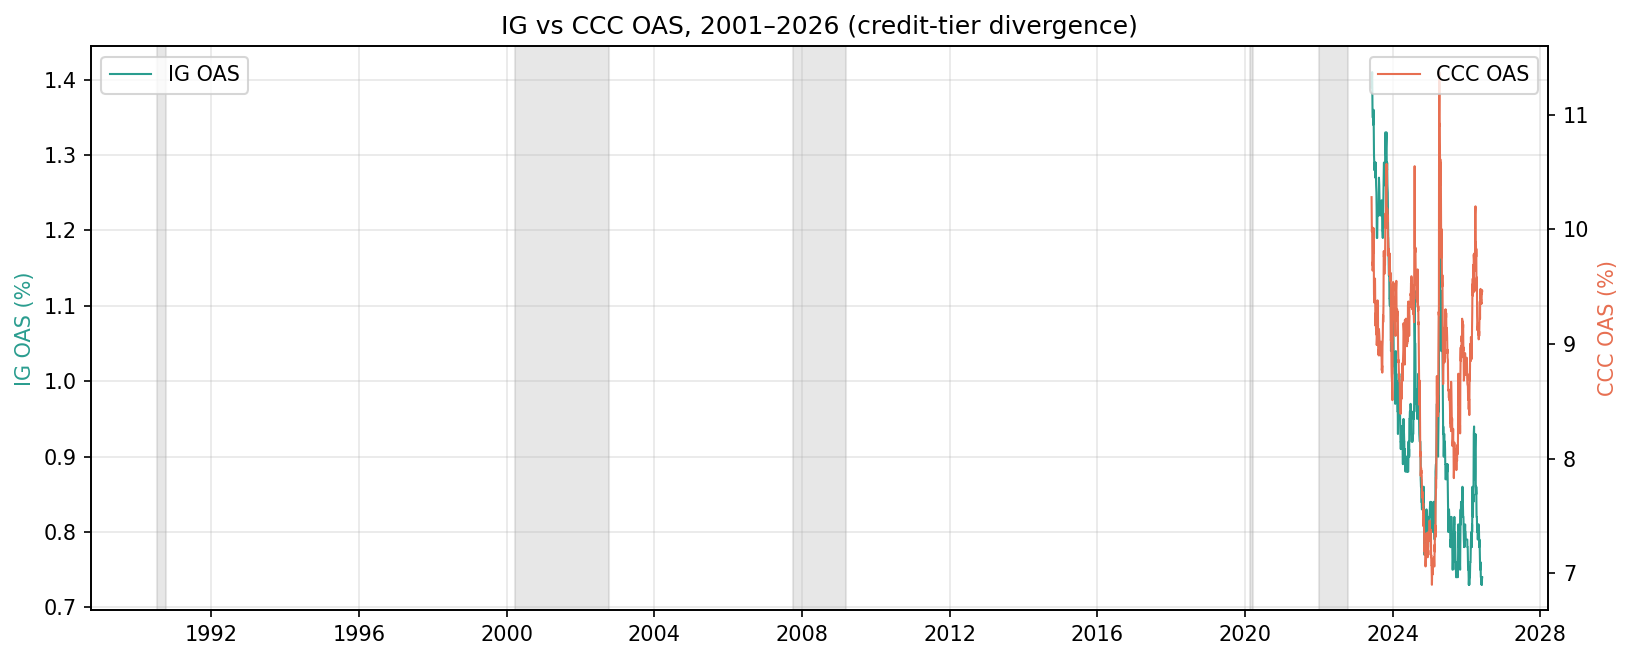
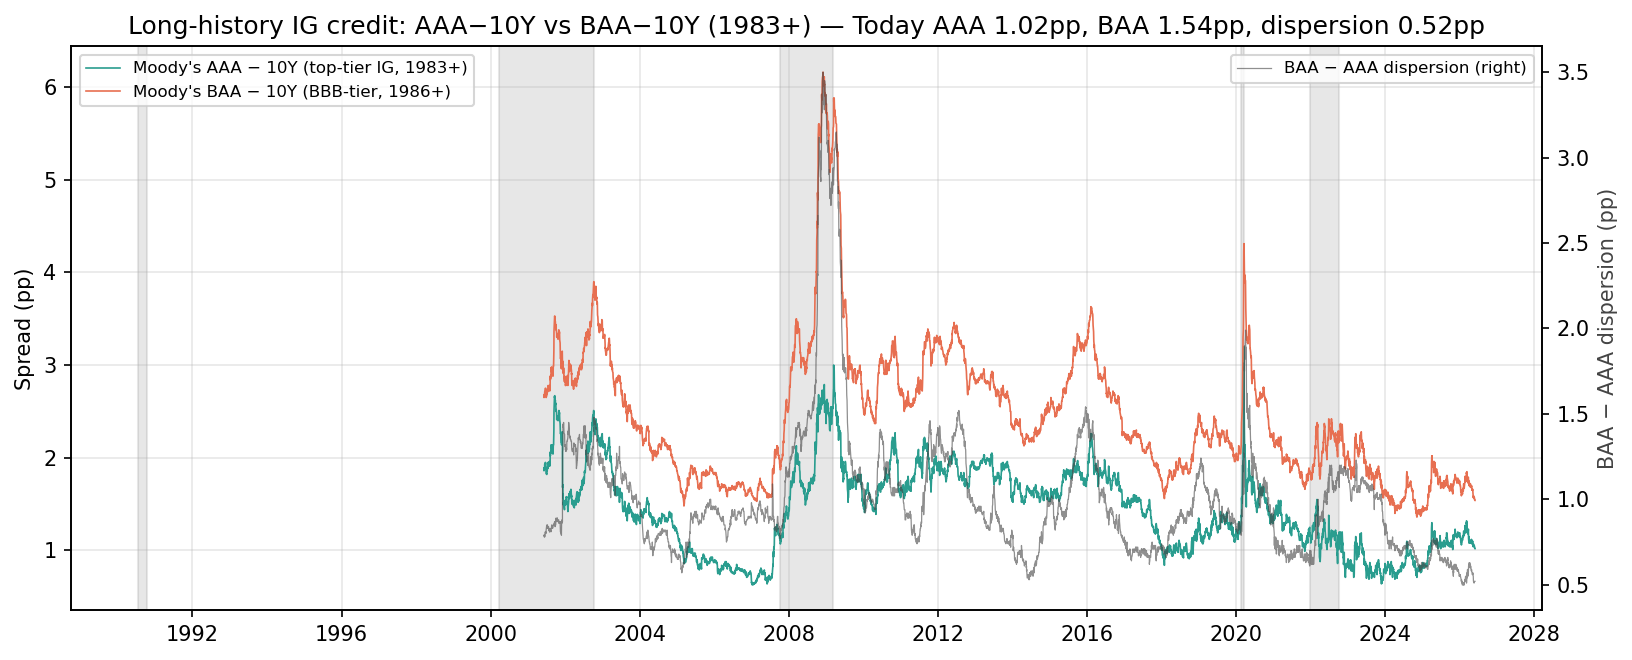
fix(market-complacency): replace IG vs CCC chart with long-history Moody's AAA/BAA
User: "no historical data?" — re Figure 4 IG vs CCC OAS still showing
only post-2023 (same ICE BofA relicensing limitation as Figure 3 HY OAS).

Replaced with Moody's AAA-10Y vs BAA-10Y overlay:
- AAA-10Y (FRED AAA10Y): 1983+ daily, ~10,800 obs. Top-tier IG.
- BAA-10Y (FRED BAA10Y): 1986+ daily, ~10,100 obs. BBB-tier.
- BAA - AAA dispersion (right axis): long-history analog of "CCC - HY
  spread" — credit-quality dispersion within IG widens before
  credit-cycle turns

Chart now shows:
- 40 years of IG credit-tier history
- Bear-market shading reveals 2000-02 dot-com, 2008 GFC (BAA peaked
  >6pp, dispersion ~3.5pp), 2020 COVID (BAA spiked to 4.3pp), 2022
  Fed pivot
- Today's values in title: AAA 1.02pp, BAA 1.54pp, dispersion 0.52pp

Did NOT add AAA10Y to the INDICATORS catalog (weight 0 would still
pollute the active count). Fetched inline inside the chart function
via fetch_fred("AAA10Y", ...). Computational cost: one extra FRED API
call per build.

Report Figure 4 caption updated:
- Title changed to "Long-history IG credit — AAA-10Y vs BAA-10Y +
  dispersion"
- Source links updated to point at AAA10Y + BAA10Y FRED pages
- Explanation of the dispersion metric + which historical events are
  visible in the chart

diff --git a/.claude/skills/market-complacency/scripts/build_dashboard.py b/.claude/skills/market-complacency/scripts/build_dashboard.py
@@ -1350,18 +1350,39 @@ def _make_charts(as_of, composite, tier, composite_hist, series, table, prec_df,
         plt.savefig(CHARTS / f"market_complacency_{as_of}_hy_oas.png", dpi=150, bbox_inches="tight")
         plt.close()
 
-    # Chart 3: IG + CCC
-    if not series["ig_oas"].empty and not series["ccc_oas"].empty:
+    # Chart 3: Long-history IG credit-tier overlay — Moody's AAA-10Y vs BAA-10Y.
+    # Replaces the IG vs CCC OAS chart because ICE BofA IG and CCC are both
+    # FRED-restricted to mid-2023 forward (relicensing). Moody's AAA-10Y has
+    # FRED daily data back to 1983; BAA-10Y back to 1986. Together they show
+    # the IG credit-quality cycle: the SPREAD between the two (BAA − AAA)
+    # is the long-history analog of "CCC − HY spread" — credit-quality
+    # dispersion within IG widens before turns.
+    aaa_rows = fetch_fred("AAA10Y", "1983-01-01")
+    if not aaa_rows.empty and not series["baa10y"].empty:
+        aaa = aaa_rows
+        baa = series["baa10y"]
+        # Align on common dates
+        df = pd.concat([aaa.rename("aaa"), baa.rename("baa")], axis=1).dropna()
+        df["dispersion"] = df["baa"] - df["aaa"]
         fig, ax = plt.subplots(figsize=(11, 4.5))
         _shade_bears(ax)
-        ax.plot(series["ig_oas"].index, series["ig_oas"].values, lw=1.0, color="#2a9d8f", label="IG OAS")
+        ax.plot(df.index, df["aaa"], lw=0.8, color="#2a9d8f", label="Moody's AAA − 10Y (top-tier IG, 1983+)")
+        ax.plot(df.index, df["baa"], lw=0.8, color="#e76f51", label="Moody's BAA − 10Y (BBB-tier, 1986+)")
         ax2 = ax.twinx()
-        ax2.plot(series["ccc_oas"].index, series["ccc_oas"].values, lw=1.0, color="#e76f51", label="CCC OAS")
-        ax.set_ylabel("IG OAS (%)", color="#2a9d8f")
-        ax2.set_ylabel("CCC OAS (%)", color="#e76f51")
-        ax.set_title(f"IG vs CCC OAS, 2001–{as_of[:4]} (credit-tier divergence)")
+        ax2.plot(df.index, df["dispersion"], lw=0.6, color="#444444", alpha=0.6,
+                 label="BAA − AAA dispersion (right)")
+        ax.set_ylabel("Spread (pp)")
+        ax2.set_ylabel("BAA − AAA dispersion (pp)", color="#444444")
+        cur_aaa = float(df["aaa"].iloc[-1])
+        cur_baa = float(df["baa"].iloc[-1])
+        cur_disp = float(df["dispersion"].iloc[-1])
+        ax.set_title(
+            f"Long-history IG credit: AAA−10Y vs BAA−10Y (1983+) — Today AAA {cur_aaa:.2f}pp, "
+            f"BAA {cur_baa:.2f}pp, dispersion {cur_disp:.2f}pp"
+        )
         ax.grid(alpha=0.3)
-        ax.legend(loc="upper left"); ax2.legend(loc="upper right")
+        ax.legend(loc="upper left", fontsize=8)
+        ax2.legend(loc="upper right", fontsize=8)
         plt.tight_layout()
         plt.savefig(CHARTS / f"market_complacency_{as_of}_ig_ccc.png", dpi=150, bbox_inches="tight")
         plt.close()

diff --git a/reports/market-complacency/market_complacency_2026-06-07.md b/reports/market-complacency/market_complacency_2026-06-07.md
@@ -50,8 +50,8 @@ Indicator histories with bear-market shading and last-10y percentile reference l
 ![Figure 3: Long-history credit (Moody's BAA−10Y + HY OAS reference points)](../charts/market_complacency_2026-06-07_hy_oas.png)
 *Sources: [FRED Moody's BAA−10Y (BAA10Y, 1986+)](https://fred.stlouisfed.org/series/BAA10Y) · [FRED ICE BofA HY OAS (BAMLH0A0HYM2, 2023+)](https://fred.stlouisfed.org/series/BAMLH0A0HYM2) · [TradingEconomics HY OAS long-history chart](https://tradingeconomics.com/united-states/bofa-merrill-lynch-us-high-yield-option-adjusted-spread-fed-data.html)*
 
-![Figure 4: IG vs CCC OAS](../charts/market_complacency_2026-06-07_ig_ccc.png)
-*Sources: [FRED IG OAS (BAMLC0A0CM, 2023+)](https://fred.stlouisfed.org/series/BAMLC0A0CM) · [FRED CCC OAS (BAMLH0A3HYC, 2023+)](https://fred.stlouisfed.org/series/BAMLH0A3HYC). Both ICE BofA series are FRED-restricted to mid-2023 forward — for pre-2023 IG-credit cycle context see Figure 3's BAA−10Y line which goes back to 1986.*
+![Figure 4: Long-history IG credit — Moody's AAA−10Y vs BAA−10Y + dispersion](../charts/market_complacency_2026-06-07_ig_ccc.png)
+*Sources: [FRED Moody's AAA−10Y (AAA10Y, 1983+)](https://fred.stlouisfed.org/series/AAA10Y) · [FRED Moody's BAA−10Y (BAA10Y, 1986+)](https://fred.stlouisfed.org/series/BAA10Y) — Replaces the FRED-restricted ICE BofA IG/CCC overlay (both 2023+ only). The BAA − AAA dispersion (grey) is the long-history analog of "CCC − HY spread": widens before credit-cycle turns. GFC peak (>6pp BAA, ~3.5pp dispersion) and COVID spike (BAA to 4.3pp) clearly visible.*
 
 ![Figure 5: Shiller CAPE](../charts/market_complacency_2026-06-07_cape.png)
 *Source: [multpl.com Shiller PE Ratio (monthly, 1871+)](https://www.multpl.com/shiller-pe) · derived from [Robert Shiller's Yale dataset](http://www.econ.yale.edu/~shiller/data.htm).*
